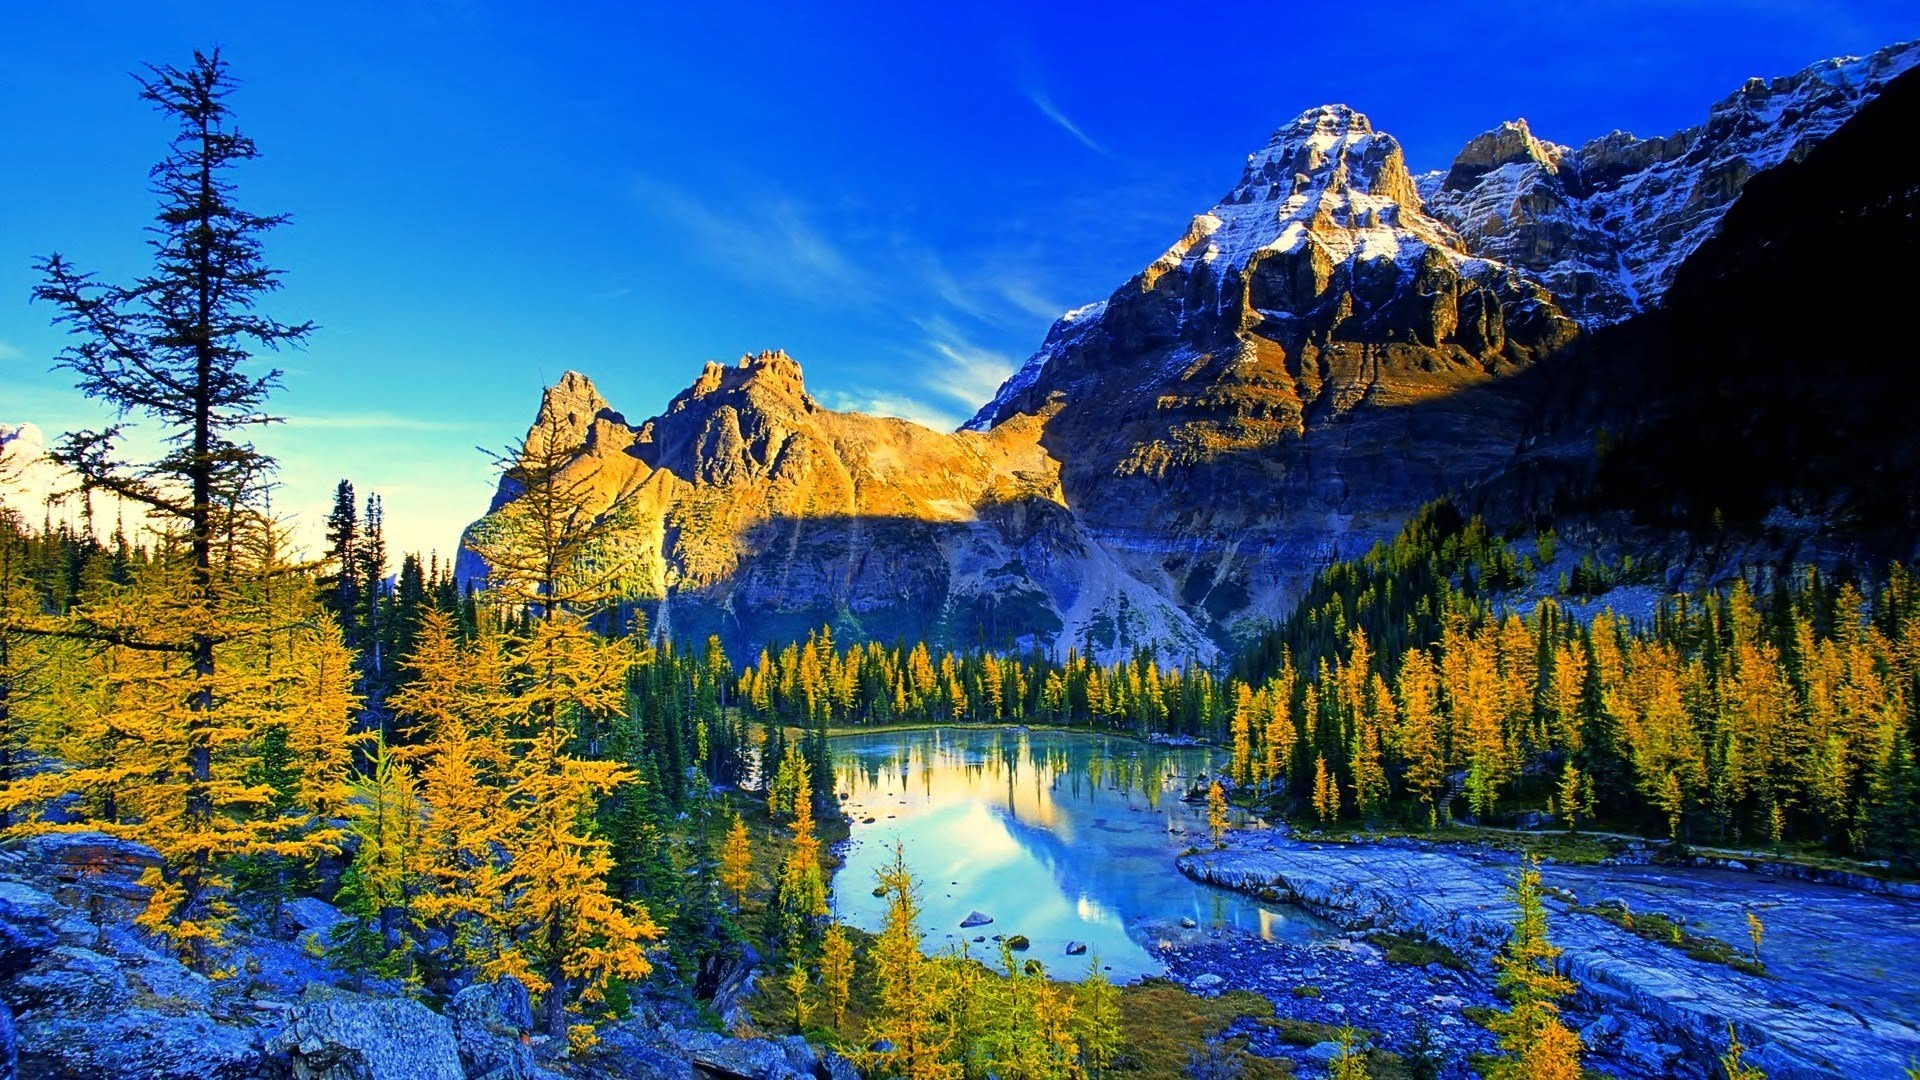
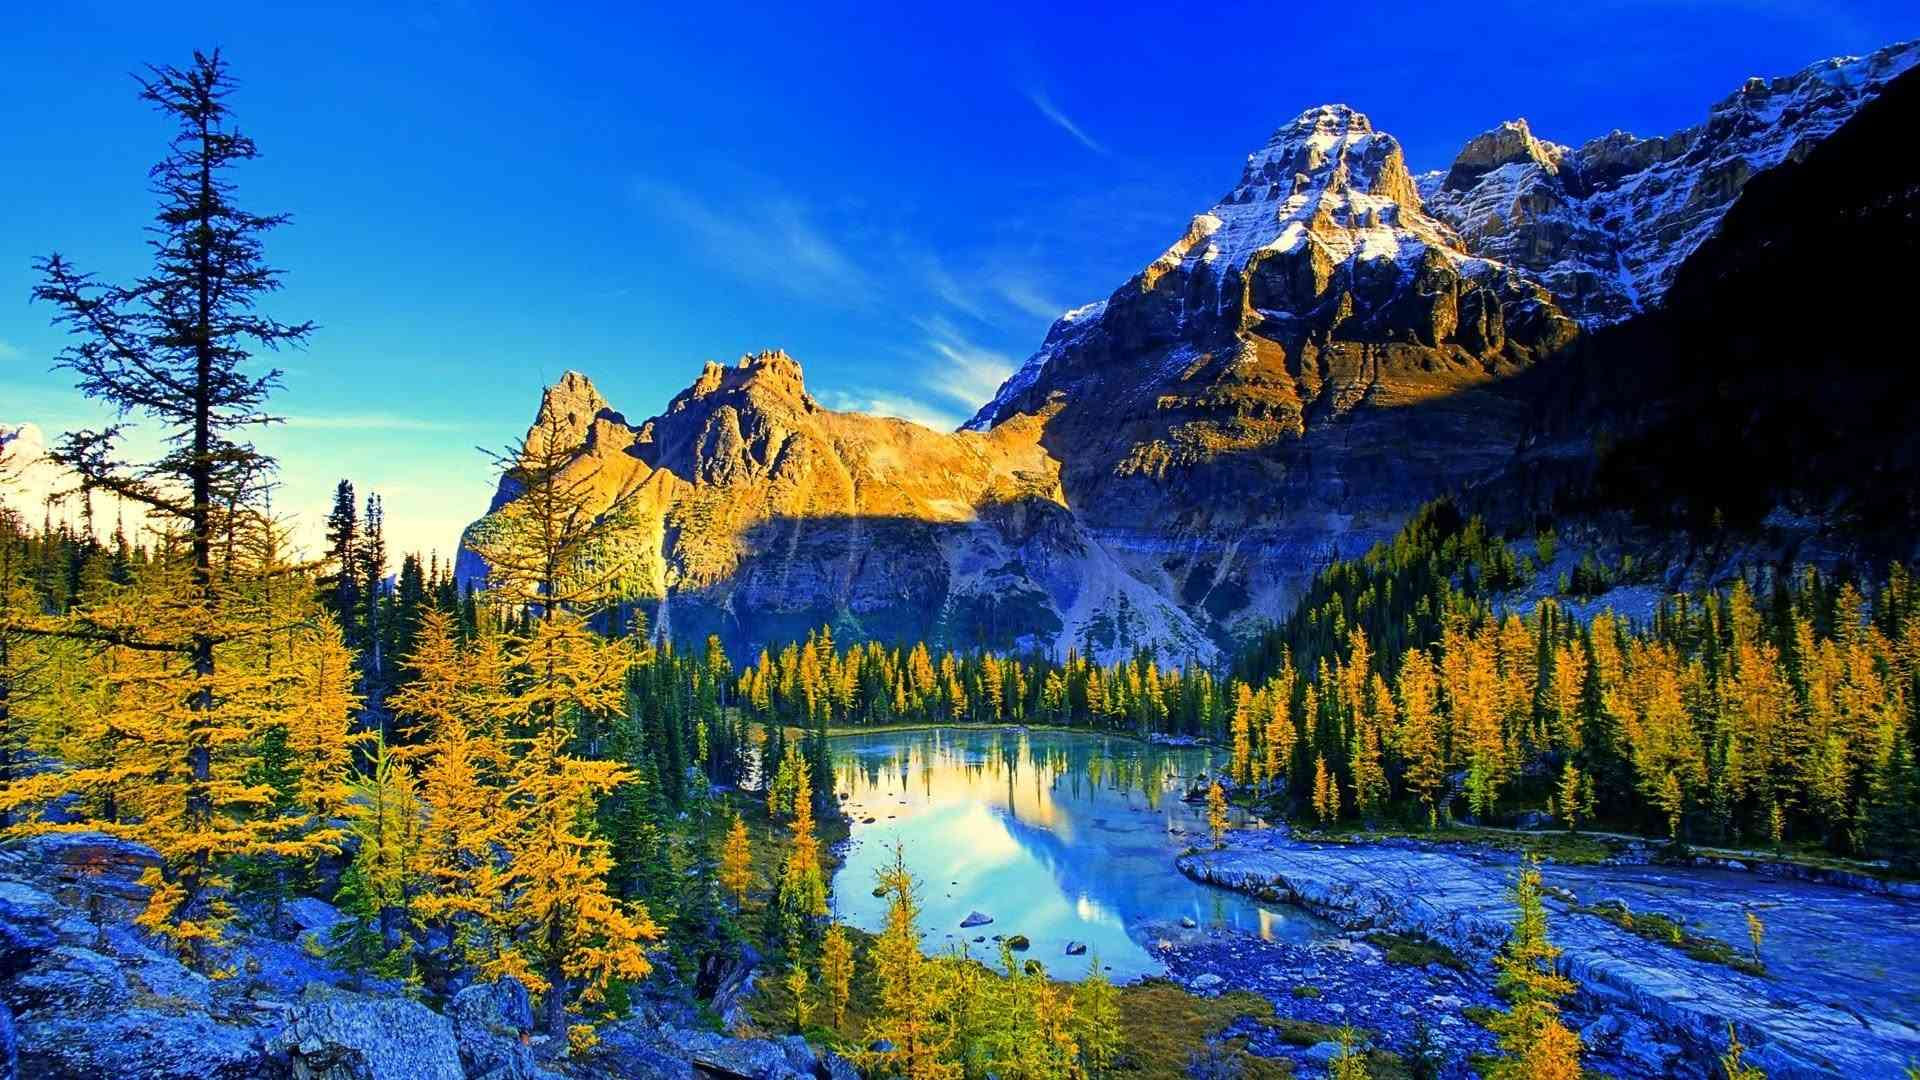
Fix Vercel deployment: correct import path case sensitivity for Button component

diff --git a/src/components/UI/glowy-waves-hero-shadcnui.tsx b/src/components/UI/glowy-waves-hero-shadcnui.tsx
@@ -4,7 +4,7 @@ import { motion, type Variants } from "framer-motion";
 import { ArrowRight, Sparkles } from "lucide-react";
 import { useEffect, useRef } from "react";
 
-import { Button } from "@/components/ui/button";
+import { Button } from "@/components/UI/button";
 
 type Point = {
   x: number;